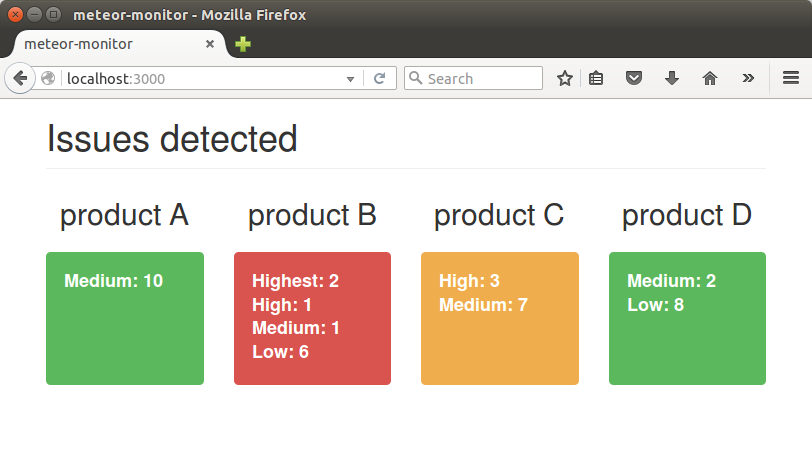
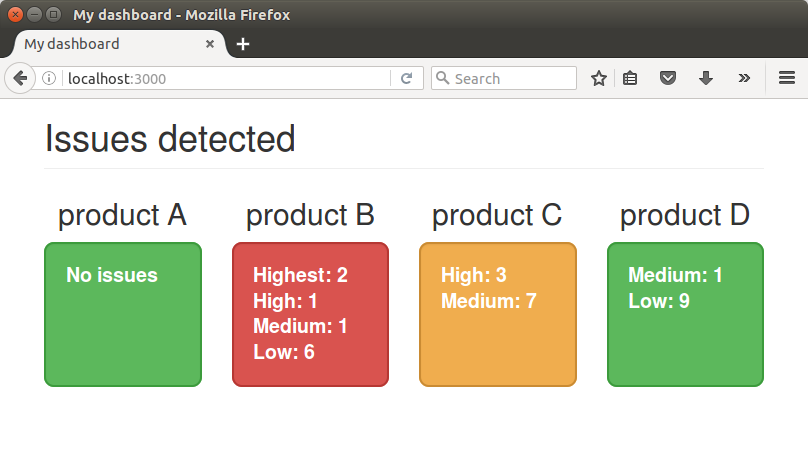
refresh page periodicaly

diff --git a/client/main.html b/client/main.html
@@ -1,5 +1,6 @@
 <head>
   <title>My dashboard</title>
+  <meta http-equiv="refresh" content="900" /> <!-- refresh page every 15 minutes -->
 </head>
 <body>
   <div class="container theme-showcase" role="main">

diff --git a/README.md b/README.md
@@ -2,17 +2,17 @@
 
 Meteor-dashboard is a sample application to show how to pick data from external apis to generate a dashboard.
 
-Let's say we want to monitor some jira issues based on some filters, we can get something like the following picture :
+The code base generates a dashboard to monitor the number of jira issues opened on some specific features (or products).
 
 ![sample_dashboard](./sample_dashboard.png "sample_dashboard")
 
-Meteor-dashboard is based on https://www.meteor.com/ (Many thanks Captain Obvious !)
+Meteor-dashboard is based on https://www.meteor.com/ (No link with the 1979 movie).
 
 ## Run metor-monitor
 
 To run the application, you need first to install meteor : https://www.meteor.com/install
 
-    git clone
+    git clone https://github.com/sboursault/meteor-dashboard.git
     cd meteor-dashboard
     meteor
 
@@ -57,7 +57,11 @@ In `server/jira-connector.js`, define the url for your jira instance:
 - implement jenkins connector
 
 ## Resources
-https://www.meteor.com/tutorials/blaze/creating-an-app
-https://www.discovermeteor.com/blog/a-guide-to-meteor-templates-data-contexts/
-https://dzone.com/articles/integrating-external-apis-your
-https://docs.atlassian.com/jira/REST/cloud/
+
+- https://www.meteor.com/tutorials/blaze/creating-an-app
+
+- https://www.discovermeteor.com/blog/a-guide-to-meteor-templates-data-contexts/
+
+- https://dzone.com/articles/integrating-external-apis-your
+
+- https://docs.atlassian.com/jira/REST/cloud/
